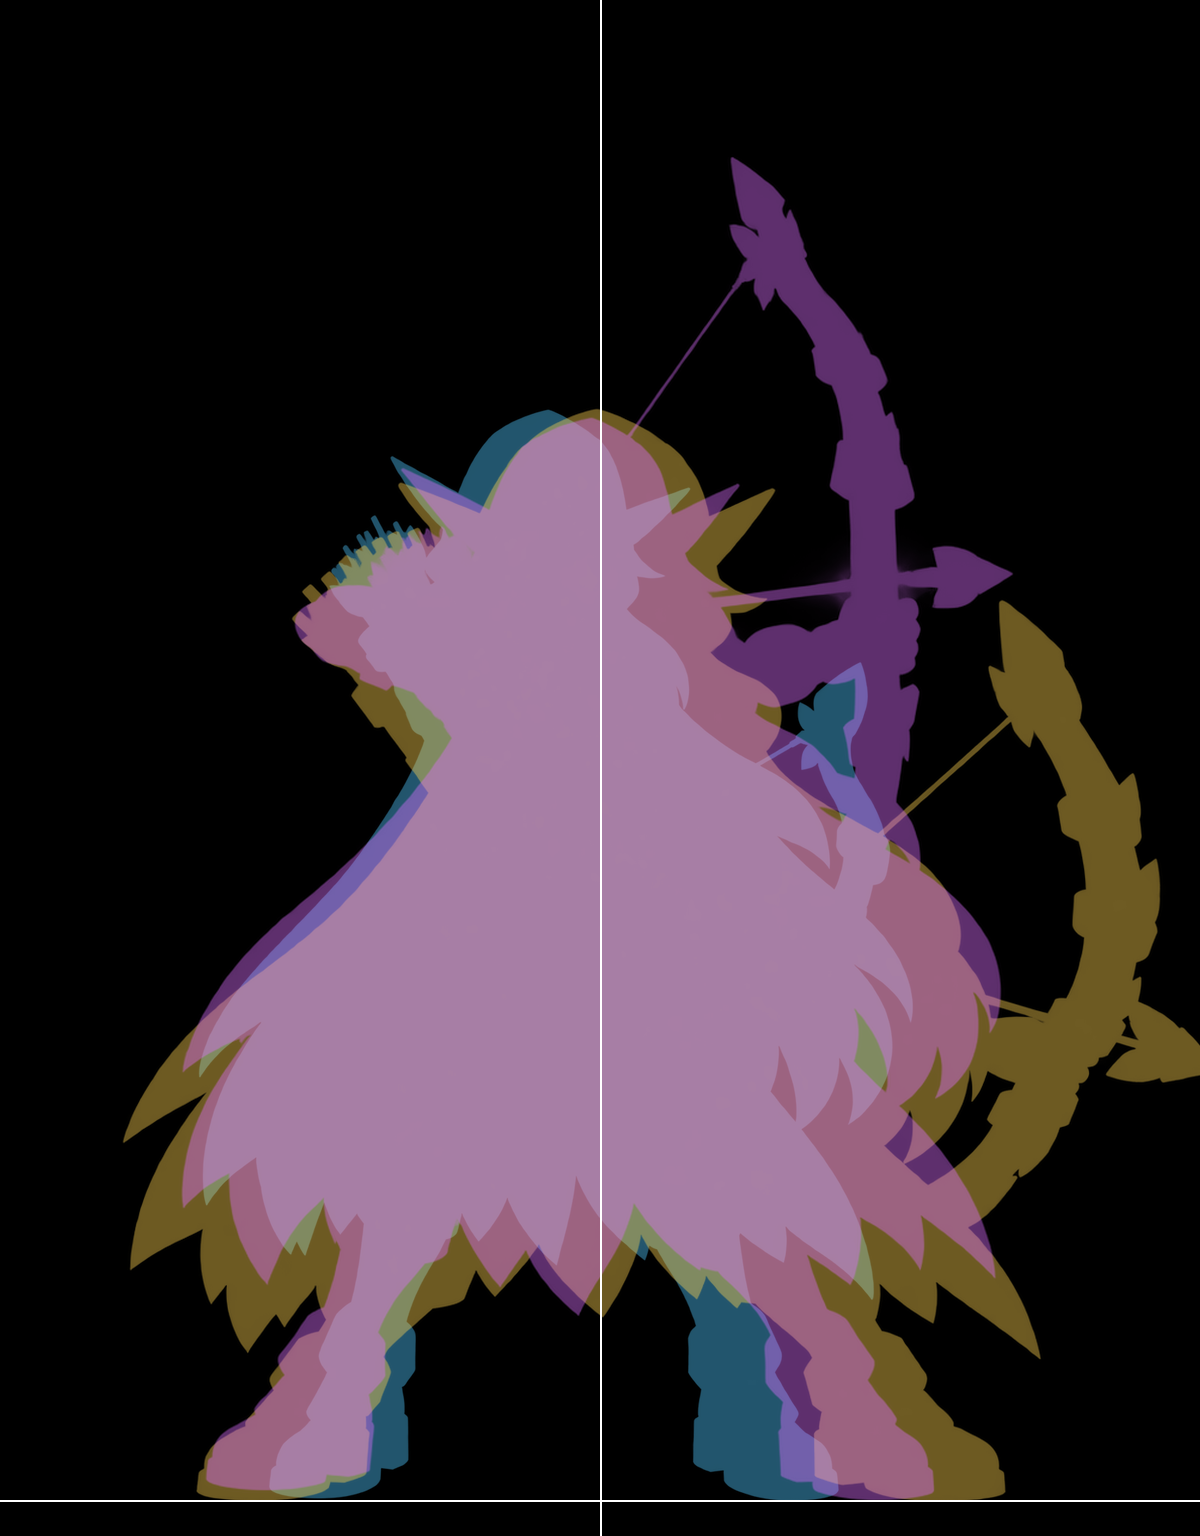
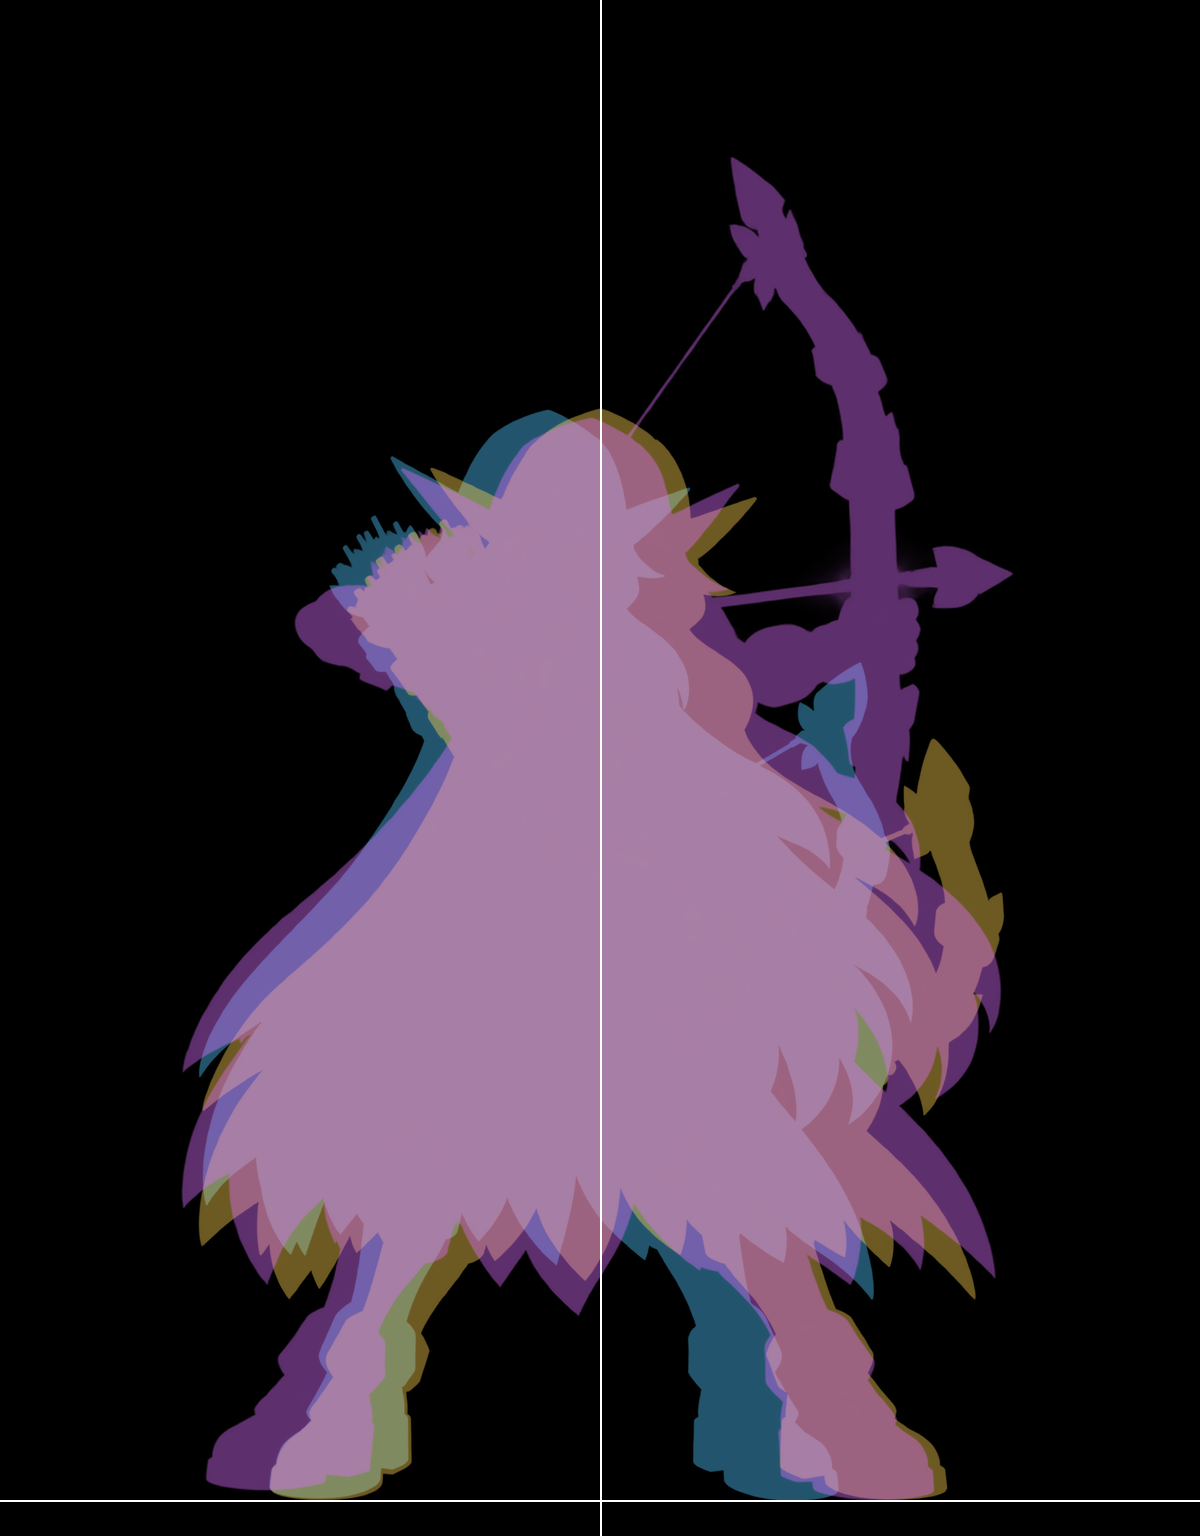
fix: replace elf hunter transition frame

diff --git a/script.js b/script.js
@@ -234,7 +234,7 @@ const characterIdleAnimations = {
   'elf:hunter': {
     frames: [
       ...[1, 2, 3, 4].map((frame) => `assets/character-portraits/calibration-tests/elf-hunter-five-frame-v1/frame-${String(frame).padStart(2, '0')}.png?v=2`),
-      'assets/character-portraits/calibration-tests/elf-hunter-five-frame-v1/frame-04-05-transition.png?v=2',
+      'assets/character-portraits/calibration-tests/elf-hunter-five-frame-v1/frame-04-05-transition.png?v=3',
       'assets/character-portraits/calibration-tests/elf-hunter-five-frame-v1/frame-05.png?v=2'
     ],
     order: [0, 1, 2, 3, 4, 5, 4, 3, 2, 1],

diff --git a/elf-hunter-animation-preview.html b/elf-hunter-animation-preview.html
@@ -51,7 +51,7 @@
   </main>
   <script>
     const base = 'assets/character-portraits/calibration-tests/elf-hunter-five-frame-v1/';
-    const frames = ['frame-01.png', 'frame-02.png', 'frame-03.png', 'frame-04.png', 'frame-04-05-transition.png', 'frame-05.png'];
+    const frames = ['frame-01.png', 'frame-02.png', 'frame-03.png', 'frame-04.png', 'frame-04-05-transition.png?v=3', 'frame-05.png'];
     const order = [0, 1, 2, 3, 4, 5, 4, 3, 2, 1];
     const frameDurationMs = 250;
     const preview = document.querySelector('#preview');

diff --git a/index.html b/index.html
@@ -291,7 +291,7 @@
   <script src="village-upgrade-policy.js?v=20260830-chapter-two-material-art-v1"></script>
   <script src="skill-upgrade-policy.js?v=20260816-divine-tome-v1"></script>
   <script src="class-skill-policy.js?v=20260906-chain-paralysis-v2"></script>
-  <script src="script.js?v=20260927-elf-hunter-transition-v3"></script>
+  <script src="script.js?v=20260927-elf-hunter-transition-v4"></script>
   <script src="monster-audit.js?v=20260920-monster-audit-v1"></script>
 </body>
 </html>

diff --git a/tools/calibrate-elf-hunter-transition-frame.py b/tools/calibrate-elf-hunter-transition-frame.py
@@ -7,7 +7,7 @@ from PIL import Image, ImageDraw
 
 
 ROOT = Path(__file__).resolve().parents[1]
-SOURCE = Path(r"C:\Users\User\AppData\Local\Temp\codex-clipboard-40166a7f-457c-4b34-94f4-d5ecbe314418.png")
+SOURCE = Path(r"C:\Users\User\AppData\Local\Temp\codex-clipboard-96635b23-fde2-4023-9c22-186a105deb4a.png")
 OUTPUT = ROOT / "assets" / "character-portraits" / "calibration-tests" / "elf-hunter-five-frame-v1"
 FRAME_PATH = OUTPUT / "frame-04-05-transition.png"
 CANVAS = (1200, 1536)
@@ -77,6 +77,12 @@ def main():
     if not SOURCE.exists():
         raise FileNotFoundError(SOURCE)
     OUTPUT.mkdir(parents=True, exist_ok=True)
+    previous_source = OUTPUT / "source-transition-04-05.png"
+    previous_frame = OUTPUT / "frame-04-05-transition.png"
+    if previous_source.exists() and not (OUTPUT / "source-transition-04-05-v1.png").exists():
+        shutil.copy2(previous_source, OUTPUT / "source-transition-04-05-v1.png")
+    if previous_frame.exists() and not (OUTPUT / "frame-04-05-transition-v1.png").exists():
+        shutil.copy2(previous_frame, OUTPUT / "frame-04-05-transition-v1.png")
     shutil.copy2(SOURCE, OUTPUT / "source-transition-04-05.png")
     source = Image.open(SOURCE).convert("RGBA")
     metric = analyze(source)
